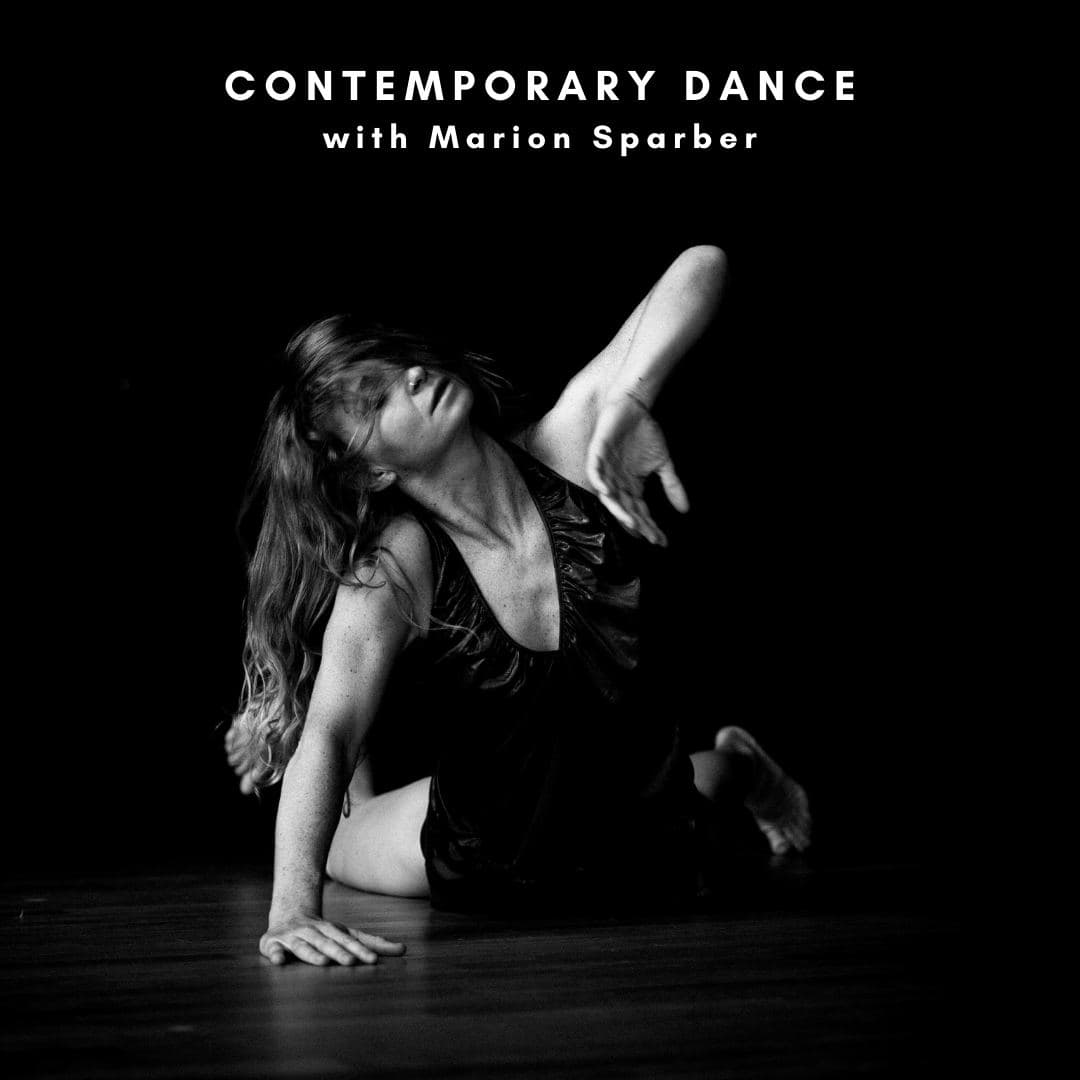
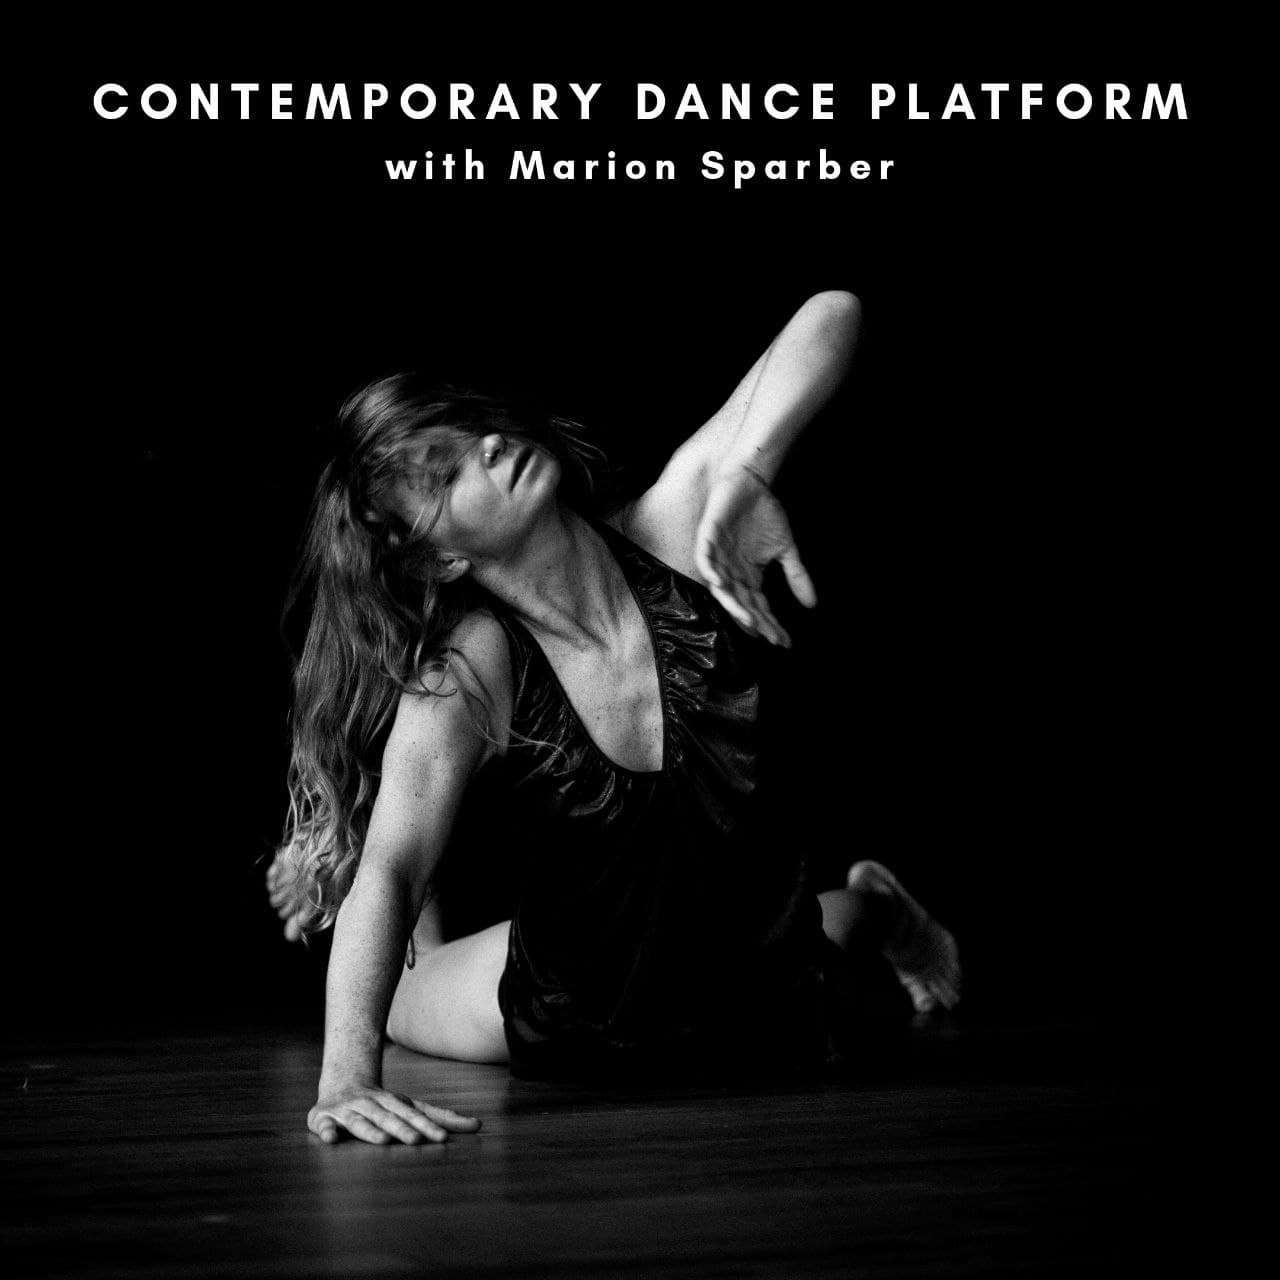
12

Changed region(s): [[0.0611, 0.0611, 0.9472, 0.1528]]

diff --git a/pages/through.html b/pages/through.html
@@ -67,7 +67,7 @@ support and guide you.
 					<p style="text-align: left;">Production - Tamara Maksymenko <br>
 Facilitator - Lukasz Czapski (professional dancer) <br>
 </p> <br>
-				<p style="text-align: center;"><img src="../gallery/2019_03_15_LaLoba-21.jpg" width="40%"></p><br>
+				<p style="text-align: center;"><img src="../gallery/2019_03_15_LaLoba-21.jpg" width="60%"></p><br>
 				<p style="text-align: left;"><span style="font-size: 20pt; font-weight: bold;">Tamara Maksymenko</span> <br>
 Tamara Maksymenko is a professional dancer, choreographer and a teacher of contact improvisation and contemporary dance for 13 years already. She has been teaching many workshops all over the world (Poland, Spain, Israel, Austria, Italy, Greece, Finland, Egypt, Germany, Russia, Ukraine, Morocco, Bulgary, Sweden, Portugal, France). She is the founder of Motion Mode Dance Theatre (MMDT) and the creator of the DNAture, FEMMINILE, 6th DAY, The MIRROR, La Loba projects on the MMDT base. Organizer of Evenings of Improvisation around all over the world.
 <br>
@@ -76,9 +76,9 @@ Tamara Maksymenko is a professional dancer, choreographer and a teacher of conta
 Now Tamara is a member of Ukrainian Contemporary Dance Platform Association and she is a member of OFFTANZ Tirol Association (Austria), collaborating with “Love to Dance” (Kirchbichl in Tirol), and the main organizer of Solo & CI Tirol Festival.
 www.mmdt.at</p>
 				</td>
-				<td style="padding: 40px;" valign="top">
+				<td style="padding: 40px;" valign="bottom">
 					<br><br>
-					<p style="text-align: center;"><img src="../gallery/Łukasz Czapski.jpg" width="50%"></p>
+					<p style="text-align: center;"><img src="../gallery/Łukasz Czapski.jpg" width="80%"></p><br>
 					<p style="text-align: left;"><span style="font-size: 20pt; font-weight: bold;">Łukasz Czapski</span> <br>
 
 Łukasz started to dance Breakdance in 1999 and a few years later formed the crew "Cats Claw" with which he traveled in Poland, the United States, France, Great Britain, Ukraine, the Netherlands and Germany, entering and winning competitions. He got involved with the theater in my hometown Siedlce in Poland where he went on to perform and teach. After finishing my Master's degree in Cultural Management he went to Austria to study contemporary dance at the Anton Bruckner University in Linz. <br>
@@ -89,12 +89,13 @@ He co-choreographed and performed "We can't stop the river" and "How I see you" 
 				</td>
 			</tr>
 		</table> 
-		<div style="margin-left: 20%; margin-right: 10%; padding:0;"><iframe width="80%" height="500" src="https://www.youtube.com/embed/JwI9U0YOsqs" frameborder="0" allow="accelerometer; autoplay; clipboard-write; encrypted-media; gyroscope; picture-in-picture" allowfullscreen></iframe></div>
+		<p style="text-align: center;"><iframe width="800" height="450" src="https://www.youtube.com/embed/JwI9U0YOsqs" frameborder="0" allow="accelerometer; autoplay; clipboard-write; encrypted-media; gyroscope; picture-in-picture" allowfullscreen></iframe></p>
+
 		
 		<h1 style="text-align: center;">“TROUGH” <br>
 Physical theatre project</h1><br> <br>
 		<p>
-			<b>Total time: 24 hours of workshops<br><br>
+			<b>Total time: more then 24 hours of workshops<br><br>
 
 
 Dates: January, 26 - January, 31; 2021<br> <br>

diff --git a/pages/CITyrolFest2021.html b/pages/CITyrolFest2021.html
@@ -94,7 +94,7 @@ Please don't hesitate to contact us in case of any questions.</p> <br><br>
 				</td>
 				<td style=" border: 1px solid #999999">
 					<h1 style="text-align: center; font-size: 20pt; font-weight: bold;">Main dish</h1><br>
-					<a href="#.html"><img src="..\gallery\CITyrolFest2021\contemporary.jpg" style="width: 40%; margin-right: 5%; margin-left: 7%;" align="left"></a>
+					<a href="contemporary.html"><img src="..\gallery\CITyrolFest2021\contemporary.jpg" style="width: 40%; margin-right: 5%; margin-left: 7%;" align="left"></a>
 					<a href="#.html"><img src="..\gallery\CITyrolFest2021\page3.jpg" style="width: 40%;" align="left"></a>
 				</td>
 				<td style="">
@@ -104,6 +104,7 @@ Please don't hesitate to contact us in case of any questions.</p> <br><br>
 				</td>
 			</tr>
 		</table>
+		
 		<br><br><br><br><br><br>
 
 

diff --git a/pages/contemporary.html b/pages/contemporary.html
@@ -66,6 +66,16 @@
 	<main style="background-color: black; text-align: center;">
 		<img src="..\gallery\CITyrolFest2021\contemporary_text.jpg"> <br><br><br><br><br>
 		<img src="..\gallery\CITyrolFest2021\contemporary_text1.jpg">
+
+		<p style="font-size: 15pt; color: white; text-align: center;">
+			Contemporary dance platform is going to be a part of the festival. You can easily jump onto it!<br><br>
+
+The second option is to take part only in Marion Sparber's Workshops of contemporary dance, the pricing can be found below: <br>
+Whole course - 170 euros <br>	
+One class (2h) - 45 euros <br>
+<br><br>
+Please, make a note in the registration form accordingly.
+		</p><br><br>
 		<p style="font-size: 15pt; color: white;"><a href="CITyrolFest2021.html" style="color: white;">BACK</a></p>
 	</main>
 
